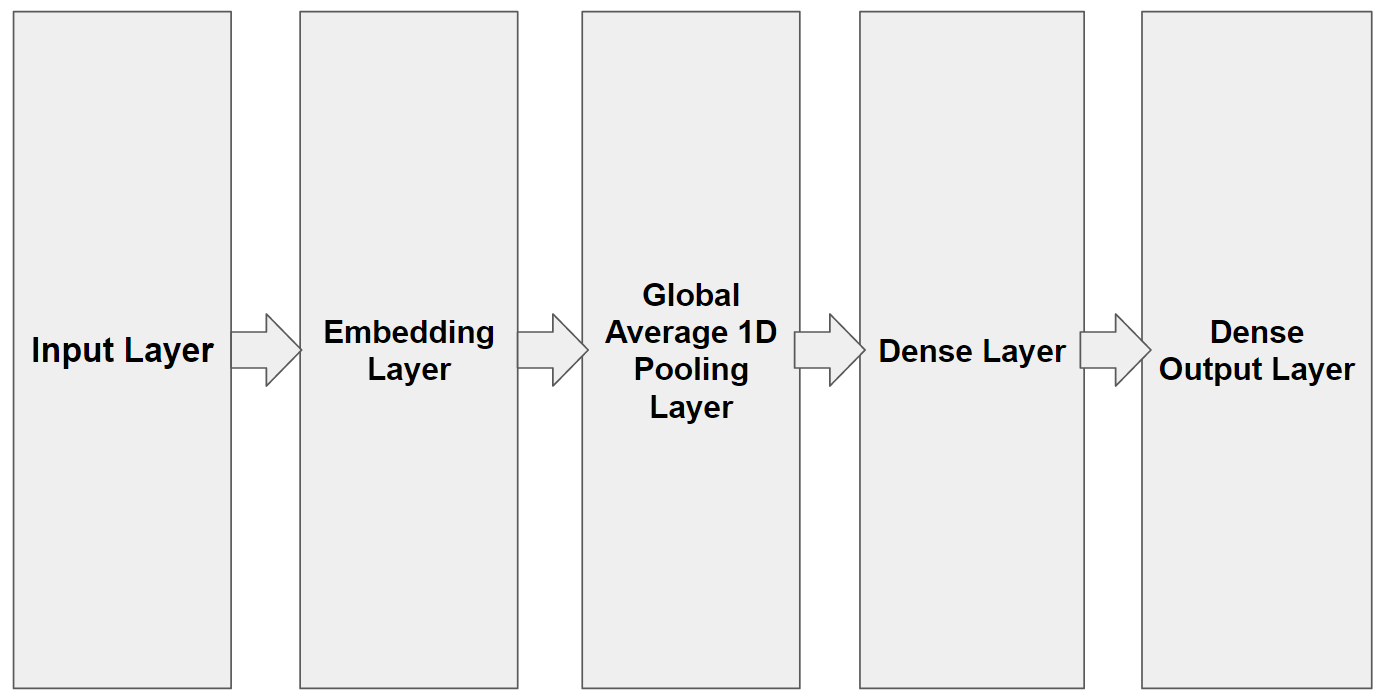
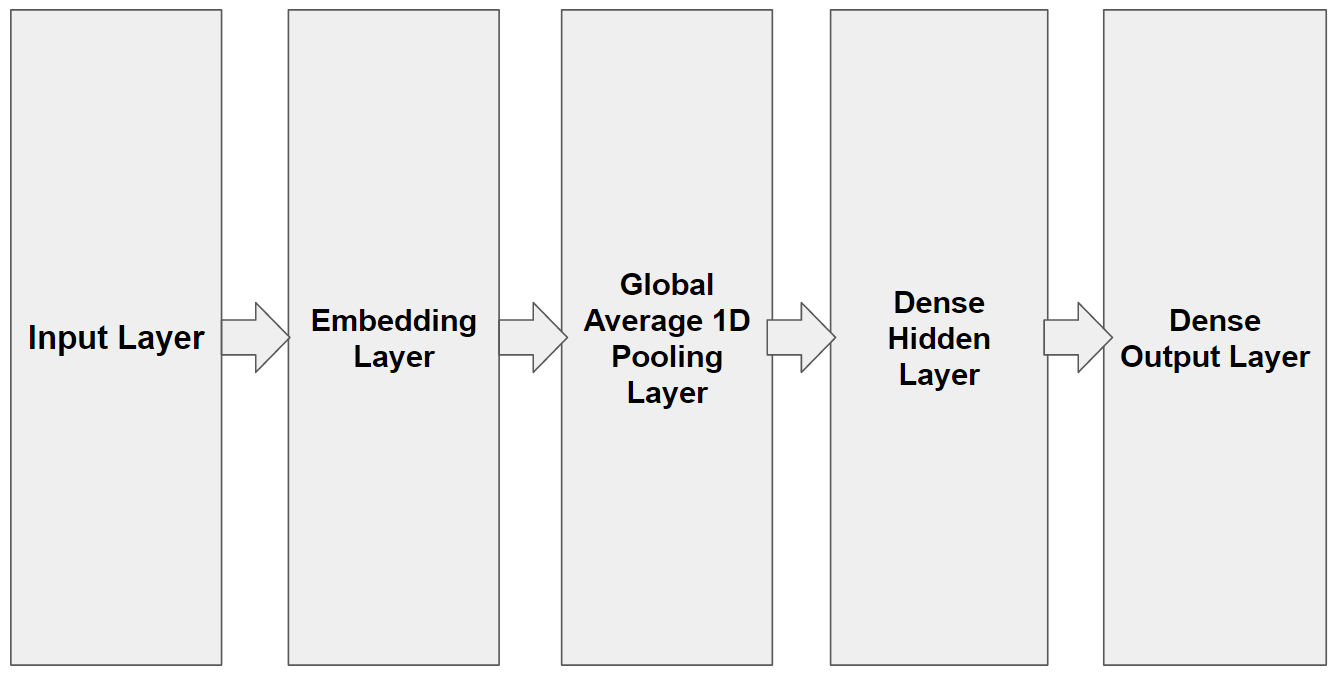
nn arch

diff --git a/.ipynb_checkpoints/README-checkpoint.md b/.ipynb_checkpoints/README-checkpoint.md
@@ -319,10 +319,14 @@ I experimented with different classifcation and ensemble methods to help classif
   <img src="https://github.com/awesomeahi95/Hotel_Review_NLP/blob/master/Images/NN_architecture.png" width=600>
 </p>
     
+* Input Layer: 17317 Nodes (one for each word in training data + 4 extra for padding, unknown words, start of review, and unused words)
+* Dense Hidden Layer: 16 Nodes (using relu activation function)
+* Dense Output Layer: 5 nodes for each score (using sigmoid activation function)
+    
 </details>
 
 <a name="Revaluation"></a>
-### Revaluation:
+### Revaluation and Deployment:
 <details open>
 <summary>Show/Hide</summary>
 <br>

diff --git a/README.md b/README.md
@@ -319,10 +319,14 @@ I experimented with different classifcation and ensemble methods to help classif
   <img src="https://github.com/awesomeahi95/Hotel_Review_NLP/blob/master/Images/NN_architecture.png" width=600>
 </p>
     
+* Input Layer: 17317 Nodes (one for each word in training data + 4 extra for padding, unknown words, start of review, and unused words)
+* Dense Hidden Layer: 16 Nodes (using relu activation function)
+* Dense Output Layer: 5 nodes for each score (using sigmoid activation function)
+    
 </details>
 
 <a name="Revaluation"></a>
-### Revaluation:
+### Revaluation and Deployment:
 <details open>
 <summary>Show/Hide</summary>
 <br>
